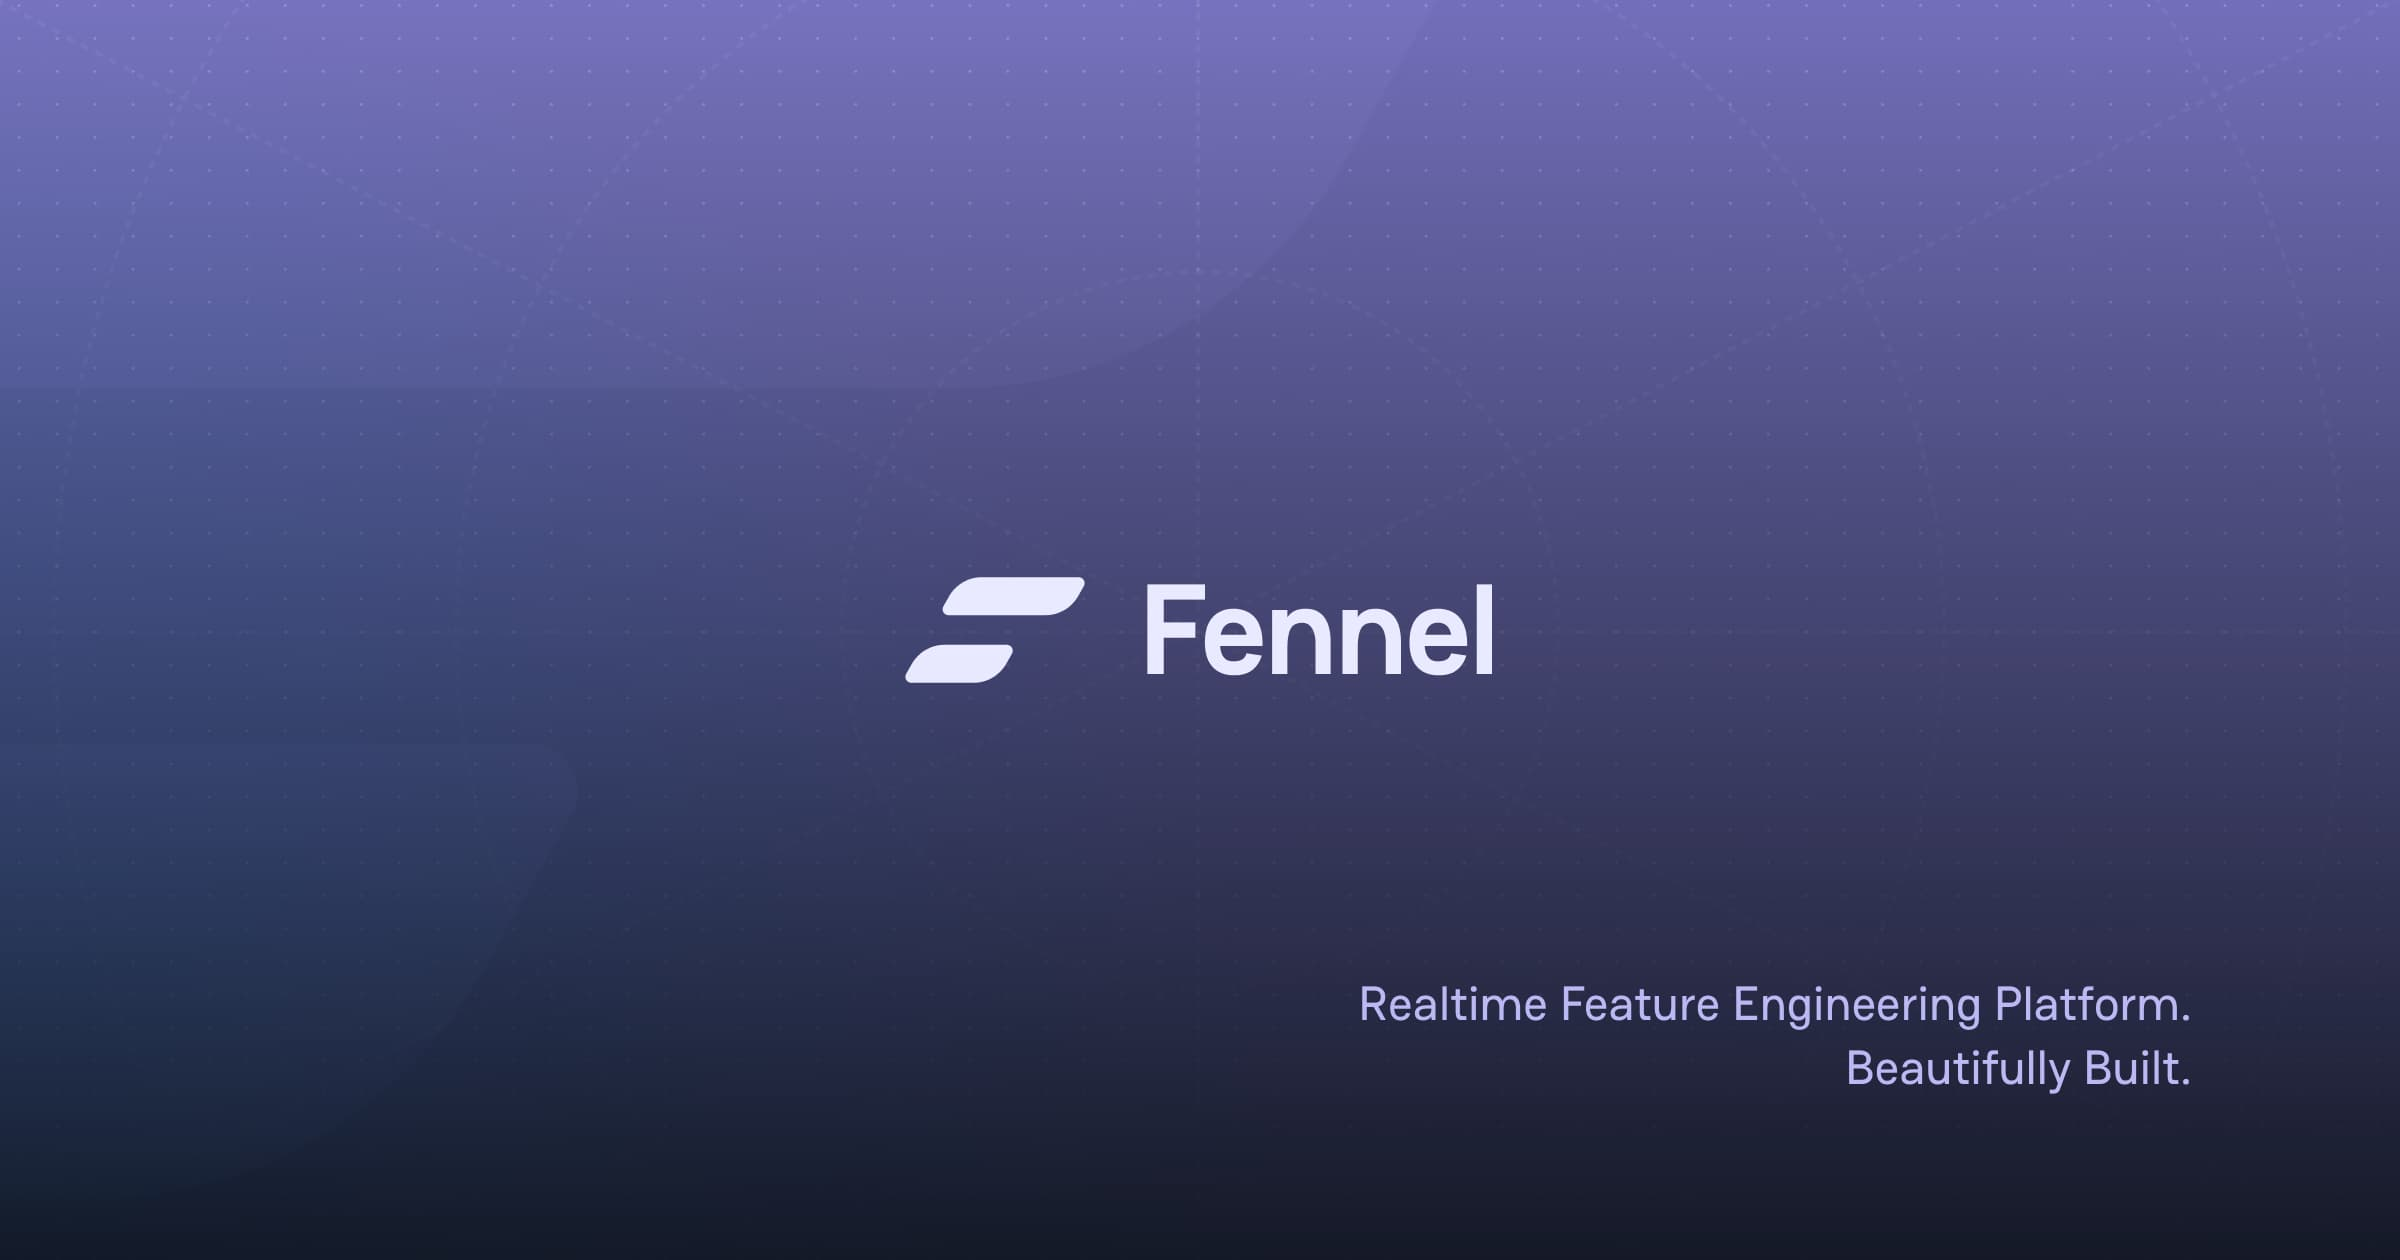
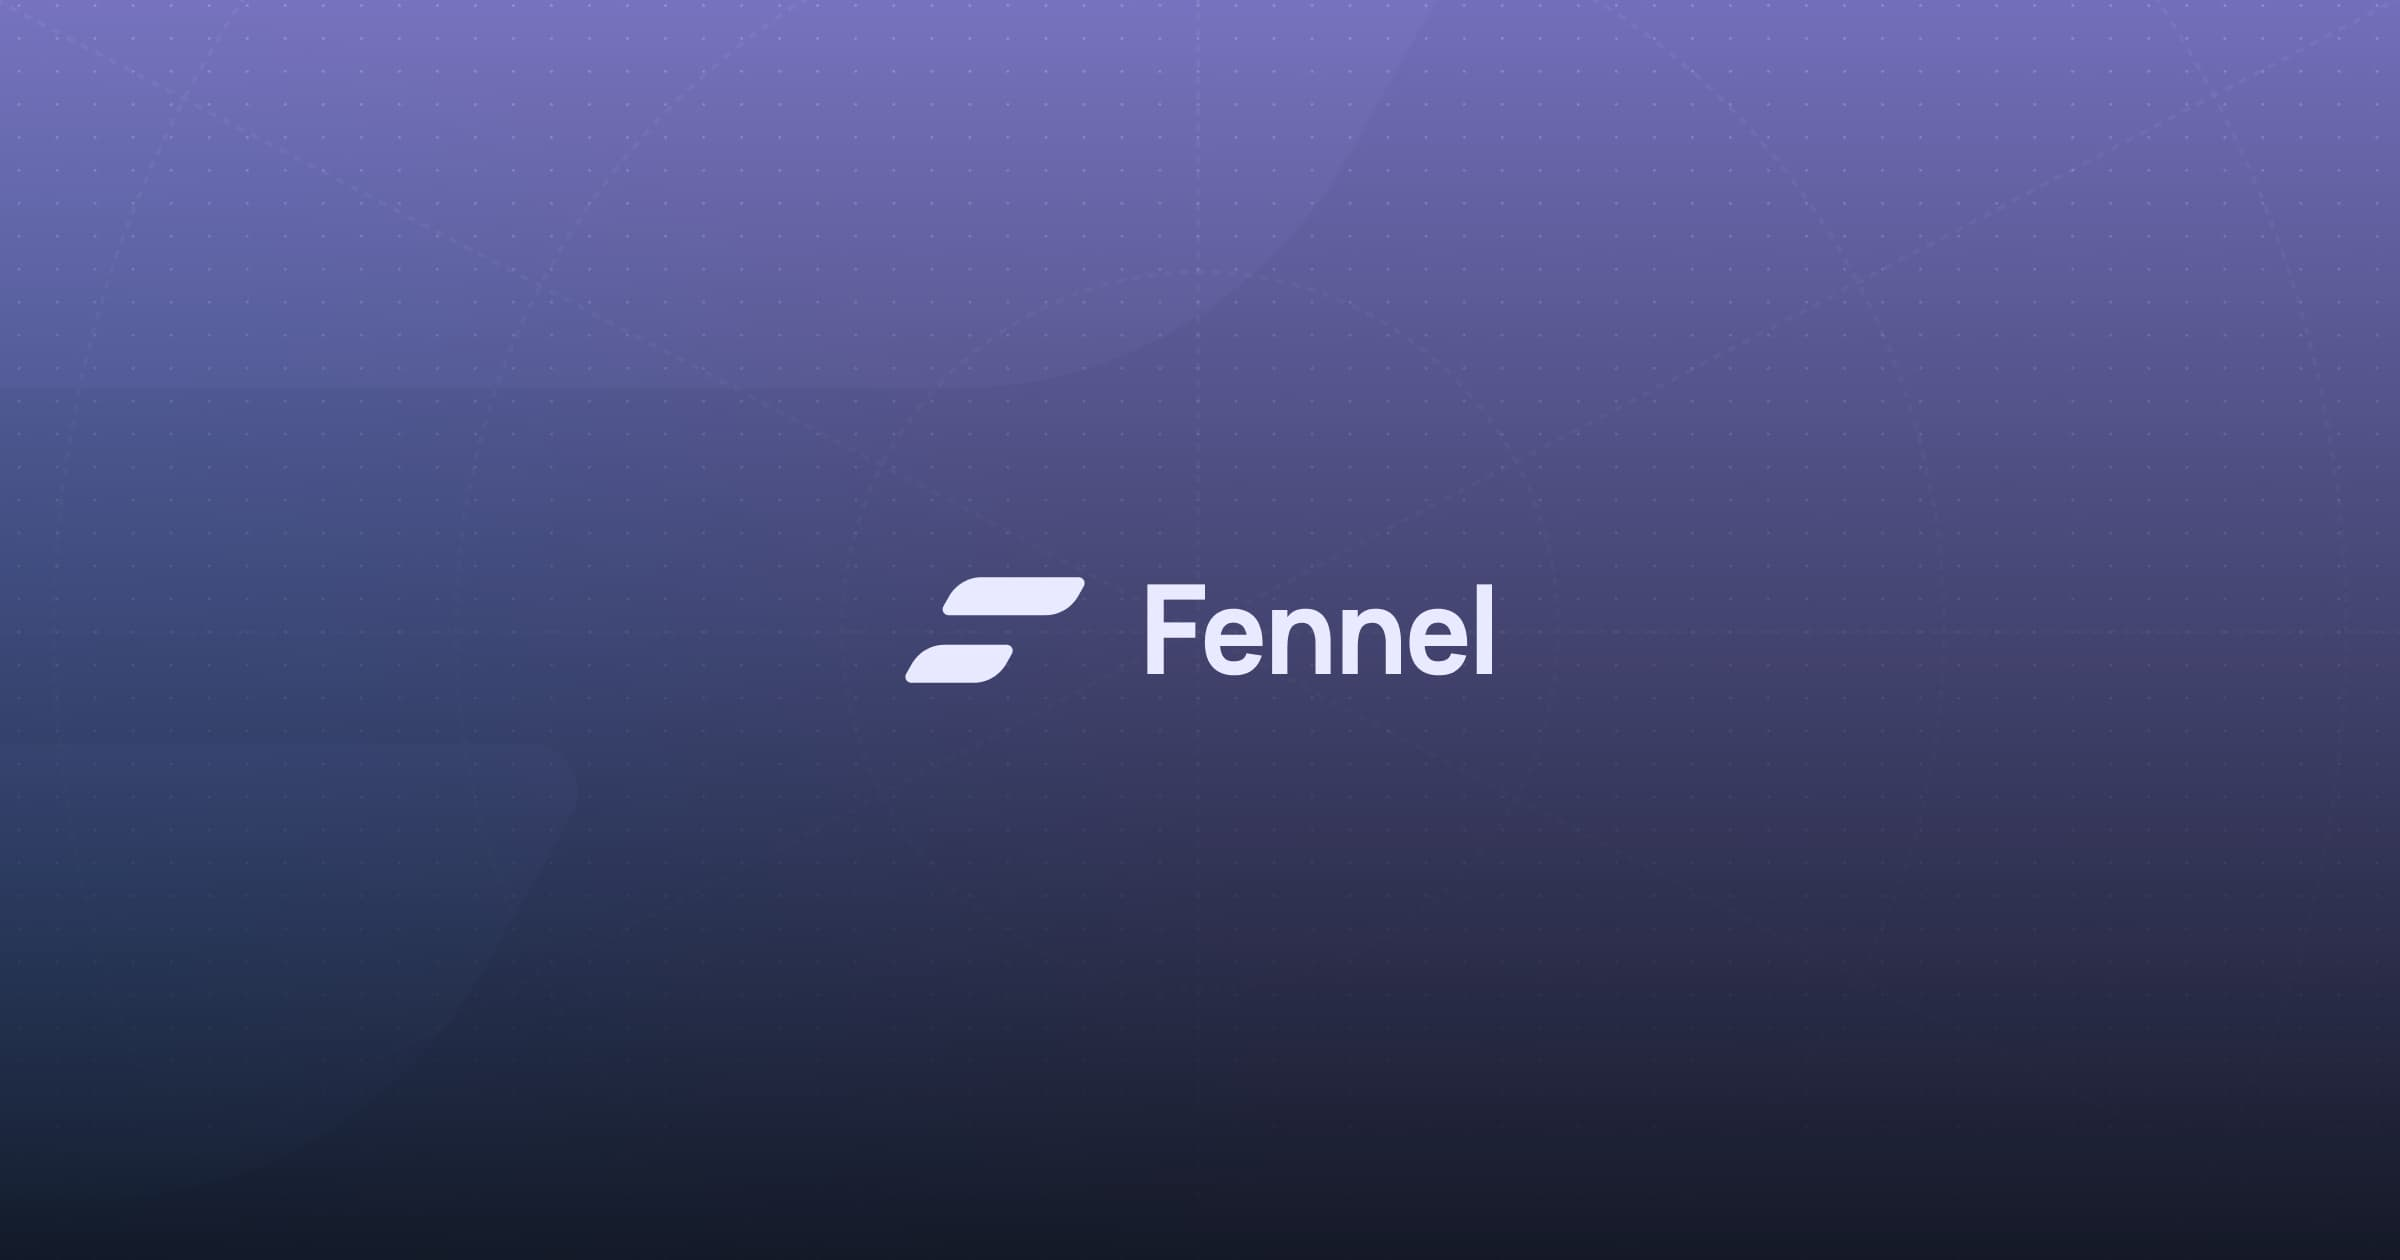
tweak default OG image & description to fit the char limit

Changed region(s): [[0.5625, 0.7738, 0.9062, 0.8667]]

diff --git a/apps/web/pages/index.tsx b/apps/web/pages/index.tsx
@@ -12,7 +12,7 @@ export default function Index() {
 				<link rel="canonical" href="https://fennel.ai/" />
 
 				<meta property="og:title" content="Fennel" />
-				<meta property="og:description" content="Fennel helps you author, compute, store, serve, monitor & govern both realtime and batch ML features." />
+				<meta property="og:description" content="Realtime ML Feature Platform. Beautifully Built." />
 				<meta property="og:url" content="https://fennel.ai/" />
 				<meta property="og:image" content="https://fennel.ai/images/og/default.jpg" />
 				<meta property="og:type" content="website" />
